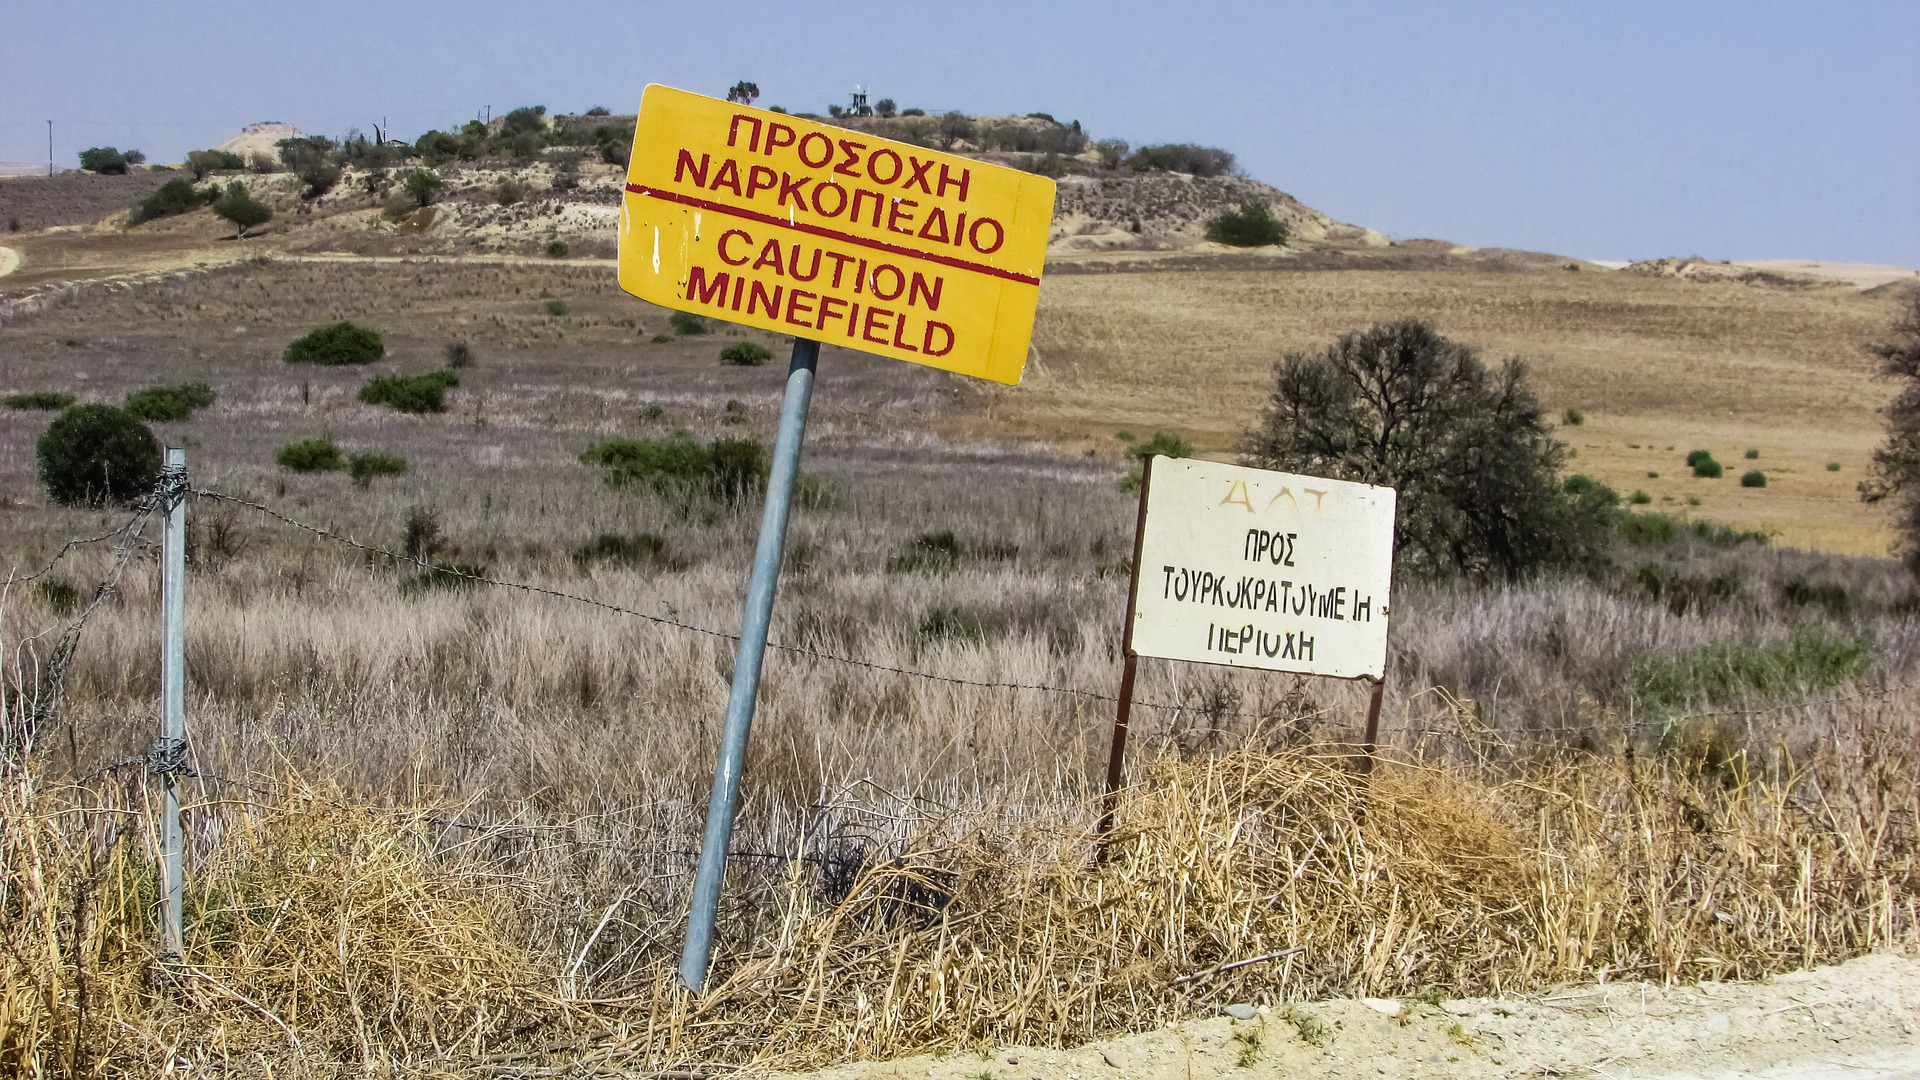
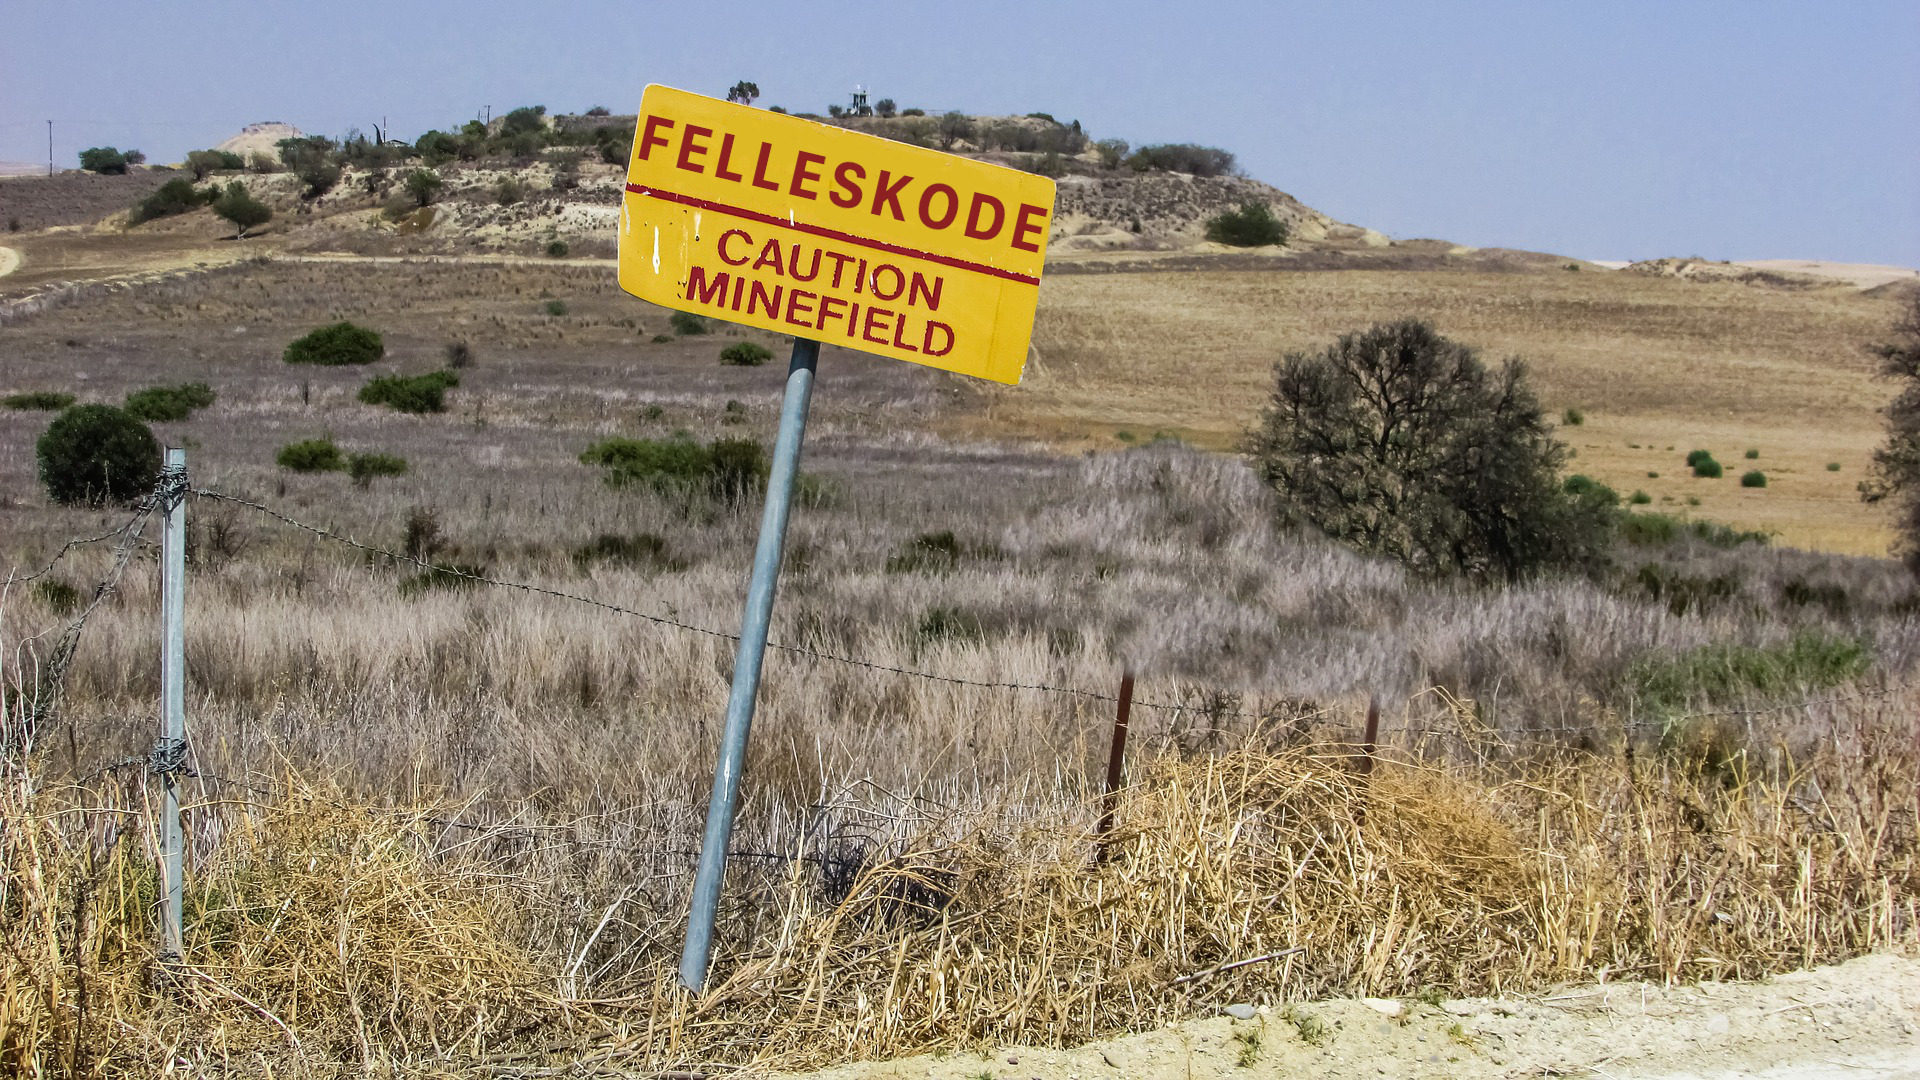
minfælt

Changed region(s): [[0.5, 0.3972, 0.75, 0.6722], [0.3125, 0.0917, 0.5625, 0.2444]]

diff --git a/index.html b/index.html
@@ -162,14 +162,12 @@
 
                 <section>
 					<section data-background="img/minefield.jpg" data-background-size="contain">
-                        <h1>Felleskode</h1>
-                        <h3>&ndash; a <i>mixed</i> blessing</h3>
 
                         <aside class="notes">
                             <h6>J</h6>
 							<p>
 							Varje gång vi skriver kode som vi delar mellan appar så tar vi på oss <strong>risk</strong>. 
-							Risken ær aldrig særskilt påtaglig dær och då, nej då verkar felleskode alltid vara en god idè:<br/> 
+							Risken ær aldrig særskilt påtaglig dær och då och førdelarna med felleskode ær uppenbara:<br/> 
 							man <strong>sparar tid</strong> på att inte behøva uppfinna hjulet igen och, inte minst,
 							man ær sæker på att hjulet blir <strong>implementert likt</strong> på tværs av appar.
 							</p>
@@ -178,7 +176,7 @@
 							Nej, risken blir først påtaglig længre fram. Till exempel nær man måste laga en liiiten fix i felleskoden och upptæcker att man
                             ligger lite bakpå och måste vælja mellan att fork'a eller ta in ændringar från de 23 versionerna man ligger
 							bak før att få ut sin lilla fix. Delar man felleskode inte bara mellan sin egna appar utan æven mellan olika teams
-							har man bevegt långt ut i minfælt av kopplingar och øverlæmningar som kan riskera førlama hela organisationen.
+							har man bevegt långt ut i ett minfælt av kopplingar och øverlæmningar som kan riskera førlama hela organisationen.
 							</p>
 
                             <p>
@@ -1109,7 +1107,7 @@ apps/app2/README.md
 								allmænt tillgængliga verktygen har i varierande grad varit møjliga att skalera upp till monorepo-skala. Mycket av dagens
 								talk har handlat om olika sider med att bruka multirepoverktyg i ett monorepo. <br />
 								Allt detta håller på och ændra sig. <br/>
-								På ett liknande sætt som Facebook en gång populariserade komponentbased 
+								Lite som Facebook en gång populariserade komponentbased
 								frontend-utveckling och virtual DOM med React
 								och som Google tog storskalig containerorkestrering main stream med Borg/Kubernetes
 								så tror vi att monorepo snart kommer bli <strong>mycket</strong> vanligare æn vad det ær idag.
